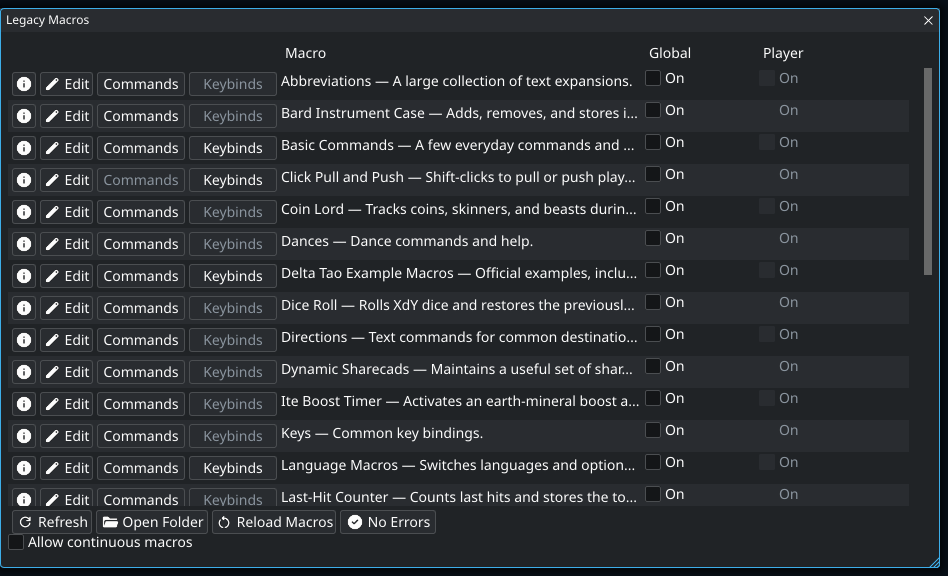
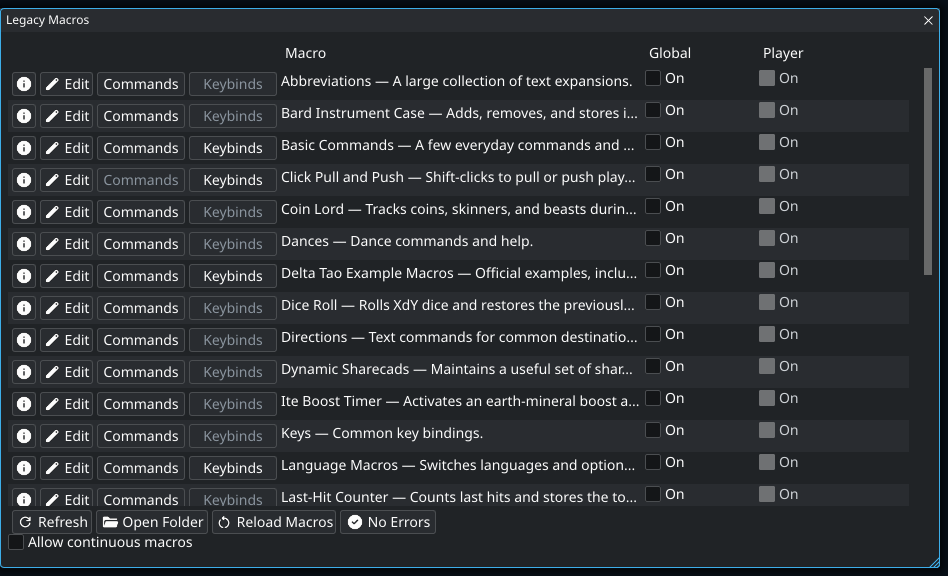
Improve disabled checkbox and radio visibility in bundled themes

diff --git a/source/eui/checkbox_visibility_test.go b/source/eui/checkbox_visibility_test.go
@@ -1,0 +1,39 @@
+package eui
+
+import "testing"
+
+func TestDisabledToggleVisibilityAcrossPalettes(t *testing.T) {
+	isolateThemeTest(t)
+	entries, err := embeddedThemes.ReadDir("themes/palettes")
+	if err != nil {
+		t.Fatal(err)
+	}
+	for _, entry := range entries {
+		name := entry.Name()[:len(entry.Name())-len(".json")]
+		if name == "Example" {
+			continue
+		}
+		t.Run(name, func(t *testing.T) {
+			if err := LoadTheme(name); err != nil {
+				t.Fatal(err)
+			}
+			for _, kind := range []struct {
+				name  string
+				style *itemData
+			}{
+				{"Checkbox", &currentTheme.Checkbox},
+				{"Radio", &currentTheme.Radio},
+			} {
+				style := disabledStyle(kind.style)
+				if ratio := textContrast(style.Color, currentTheme.Window.BGColor); ratio < 3 {
+					t.Errorf("%s disabled outline/fill disappears against window: contrast %.2f", kind.name, ratio)
+				}
+				for _, background := range []Color{style.Color, currentTheme.Window.BGColor} {
+					if ratio := textContrast(style.TextColor, background); ratio < 3 {
+						t.Errorf("%s disabled checkmark or caption is unreadable: contrast %.2f", kind.name, ratio)
+					}
+				}
+			}
+		})
+	}
+}
